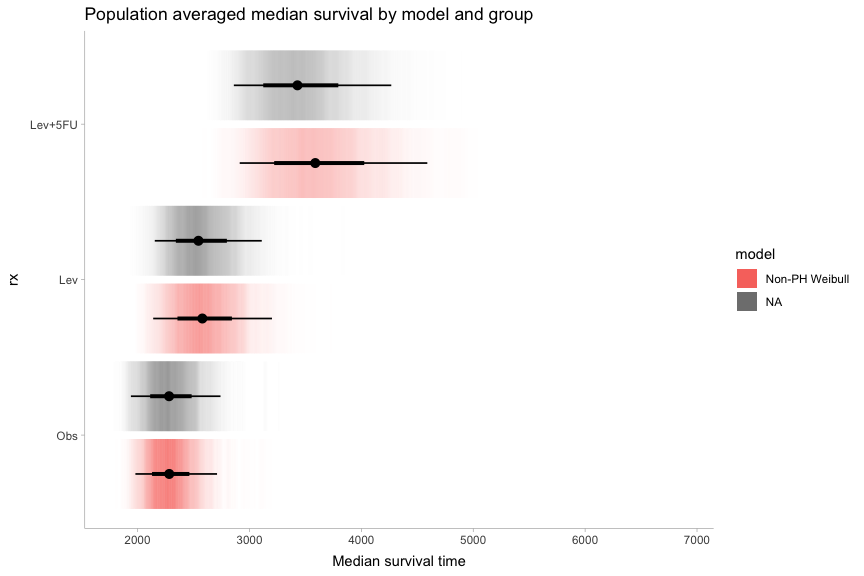
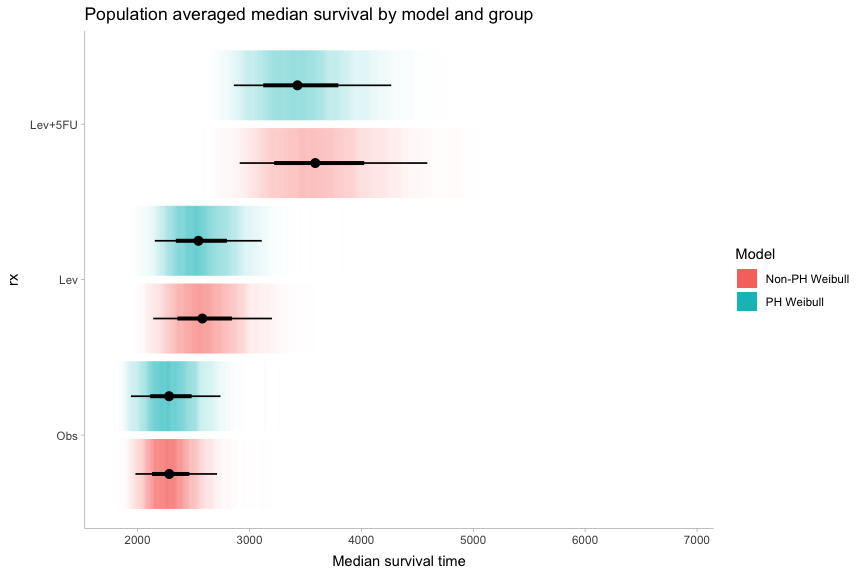
Minor title and code errrors

diff --git a/README.md b/README.md
@@ -1,5 +1,5 @@
-Marginal survival probabilities, marginal survival and hazard ratios
-from {brms} weibull models
+Marginal survival probabilities, marginal median survival and hazard
+ratios from {brms} Weibull models
 ================
 Lars Mølgaard Saxhaug
 
@@ -84,9 +84,7 @@ estimating a proportionoal hazards model. $shape$ determines whether the
 hazards are decreasing when $shape<1$ (“infant mortality”) or increasing
 (“aging”) when $shape>1$.
 
-> Ordinal vaiables are handled as monotonic
-> <a href="mailto:effects@bürkner2020"
-> class="email">effects@bürkner2020</a>
+> Ordinal vaiables are handled as monotonic effects<sup>1</sup>
 
 ``` r
 formula_scale_only <- bf(time | cens(censored) ~ rx + sex + age + nodes + mo(differ) +
@@ -209,7 +207,7 @@ proportional_posterior |>
 
 If we not only let $mu$ (and $scale$) vary, but also $shape$, we get a
 non-proportional hazard model, with a non-constant hazard
-ratio<sup>1</sup>.
+ratio<sup>2</sup>.
 
 ``` r
 formula_shape_scale <- bf(time | cens(censored) ~ rx + sex + age + nodes + mo(differ) +
@@ -379,8 +377,8 @@ proportional_posterior |>
         distinct() |>
         group_by(.draw, rx) |>
         summarise(median_survival = median_weibull(scale, shape)) |>
-        mutate(model = "Non-PH Weibull")) |>
-    ggplot() + aes(x = median_survival, y = rx, group = model, fill = model) + stat_gradientinterval(position = position_dodge(width = 1)) +
+        mutate(Model = "Non-PH Weibull")) |>
+    ggplot() + aes(x = median_survival, y = rx, group = Model, fill = Model) + stat_gradientinterval(position = position_dodge(width = 1)) +
     scale_x_continuous(name = "Median survival time") + labs(title = "Population averaged median survival by model and group")
 ```
 
@@ -388,9 +386,19 @@ proportional_posterior |>
 
 <div id="refs" class="references csl-bib-body">
 
-<div id="ref-zuehlke2013" class="csl-entry">
+<div id="ref-bürkner2020" class="csl-entry">
 
 <span class="csl-left-margin">1. </span><span
+class="csl-right-inline">Bürkner PC, Charpentier E. Modelling monotonic
+effects of ordinal predictors in Bayesian regression models. *British
+Journal of Mathematical and Statistical Psychology*. 2020;73(3):420-451.
+doi:[10.1111/bmsp.12195](https://doi.org/10.1111/bmsp.12195)</span>
+
+</div>
+
+<div id="ref-zuehlke2013" class="csl-entry">
+
+<span class="csl-left-margin">2. </span><span
 class="csl-right-inline">Zuehlke TW. Estimation and testing of
 nonproportional Weibull hazard models. *Applied Economics*.
 2013;45(15):2059-2066.
